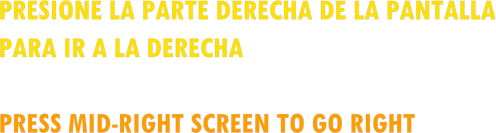
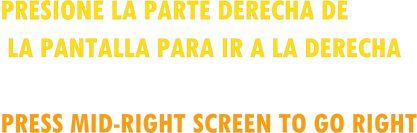
Finalizado las instrucciones de juego

Changed region(s): [[0.0, 0.8421, 1.0, 1.0], [0.0, 0.2707, 0.9664, 0.4511], [0.0, 0.0, 1.0, 0.1504]]

diff --git a/core/src/es/eduardoanton/proyectos/juegos/InstructionsScreen.java b/core/src/es/eduardoanton/proyectos/juegos/InstructionsScreen.java
@@ -19,7 +19,7 @@ public class InstructionsScreen implements Screen {
 	private SpriteBatch batch;
 	private OrthographicCamera cam;
 	private Stage stage;
-	private Actor capa,capa2,capa3,capa4,i4,fondo,trampolin,trampolin2;
+	private Actor capa,capa2,capa3,capa4,i4,fondo,trampolin,trampolin2,letrero;
 	private Actor circulo2,circulo,payaso1,payaso2,dedo,dedor,dedogl,dedogr,i1,i2,i3,salto1,salto2,salto3,payaso3;
 	public static ActorGenerico botoninicio,botonhome;
 	private Group trampolines,trampolines2,info1,info2,info3,info4;
@@ -86,7 +86,8 @@ public class InstructionsScreen implements Screen {
 
 	}
 	public void reset(){
-		fondo= new ActorGenerico(0,0,"fondo.png");
+		fondo= new ActorGenerico(0,0,"fondoinstrucciones.png");
+		letrero= new ActorGenerico(370,300,"jugar.png");
 		trampolin = new ActorGenerico(410,40,"trampolin.png");
 		trampolin2 = new ActorGenerico(410,40,"trampolin2.png");
 		circulo = new ActorGenerico(475,40, "redondo.png");
@@ -105,13 +106,16 @@ public class InstructionsScreen implements Screen {
 		botonhome = new ActorGenerico(930,500,"botonhomepe.png");
 		i1 = new ActorGenerico(50,400,"i1.png");
 		i2 = new ActorGenerico(525,400,"i2.png");
-		i3 = new ActorGenerico(330,450,"i3.png");
+		i3 = new ActorGenerico(320,450,"i3.png");
 		i4 = new ActorGenerico(330,450,"i4.png");
 		salto1 = new ActorGenerico(485,60,"salto1.png");
 		salto2 = new ActorGenerico(310,70,"salto2.png");
 		salto3 = new ActorGenerico(065,67,"salto3.png");
 		botoninicio = new ActorGenerico(430,40,"botoninicio.png");
 		botoninicio.addAction(sequence(
+				visible(false),delay(28),visible(true)
+				));
+		letrero.addAction(sequence(
 				visible(false),delay(28),visible(true)
 				));
 		trampolines = new Group();
@@ -339,6 +343,7 @@ public class InstructionsScreen implements Screen {
 		stage.addActor(dedogl);
 		stage.addActor(dedogr);
 		stage.addActor(botoninicio);
+		stage.addActor(letrero);
 		iproc = new InputProcesadorInstructions(cam,this);
 	}
 

diff --git a/core/src/es/eduardoanton/proyectos/juegos/SeeSawCircus.java b/core/src/es/eduardoanton/proyectos/juegos/SeeSawCircus.java
@@ -47,6 +47,8 @@ public class SeeSawCircus extends Game {
 	private void loadassets(){
 		asset = new AssetManager();
 		asset.load("creditsidea.png", Texture.class);
+		asset.load("fondoinstrucciones.png", Texture.class);
+		asset.load("jugar.png", Texture.class);
 		asset.load("creditsart.png", Texture.class);
 		asset.load("creditsmusic.png", Texture.class);
 		asset.load("creditssound.png", Texture.class);
